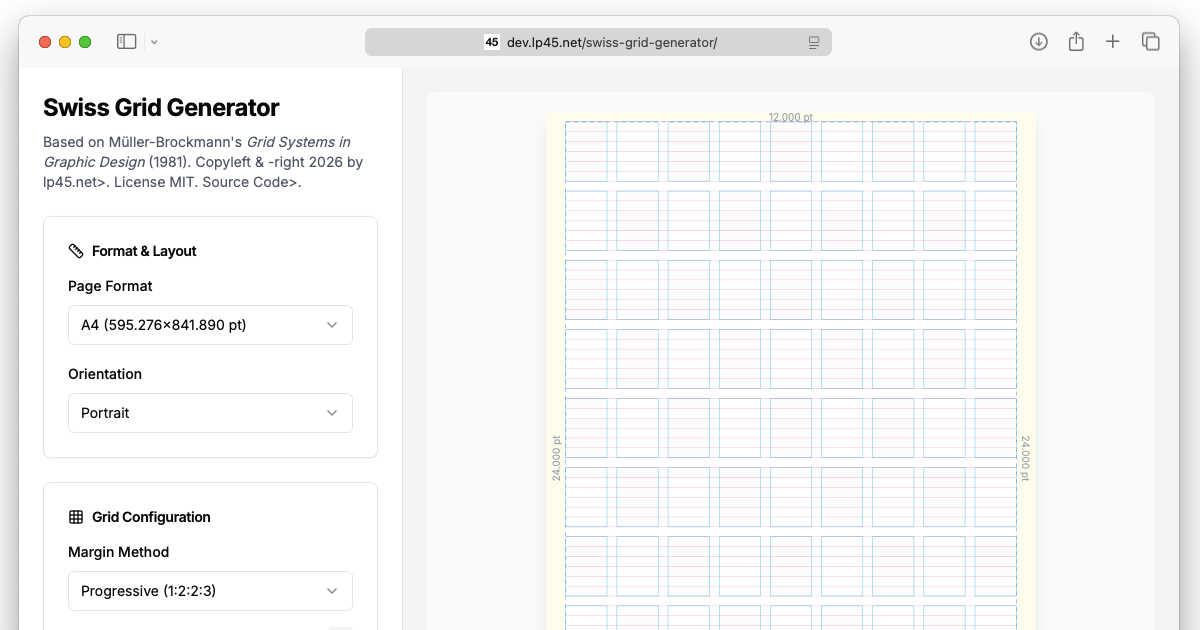
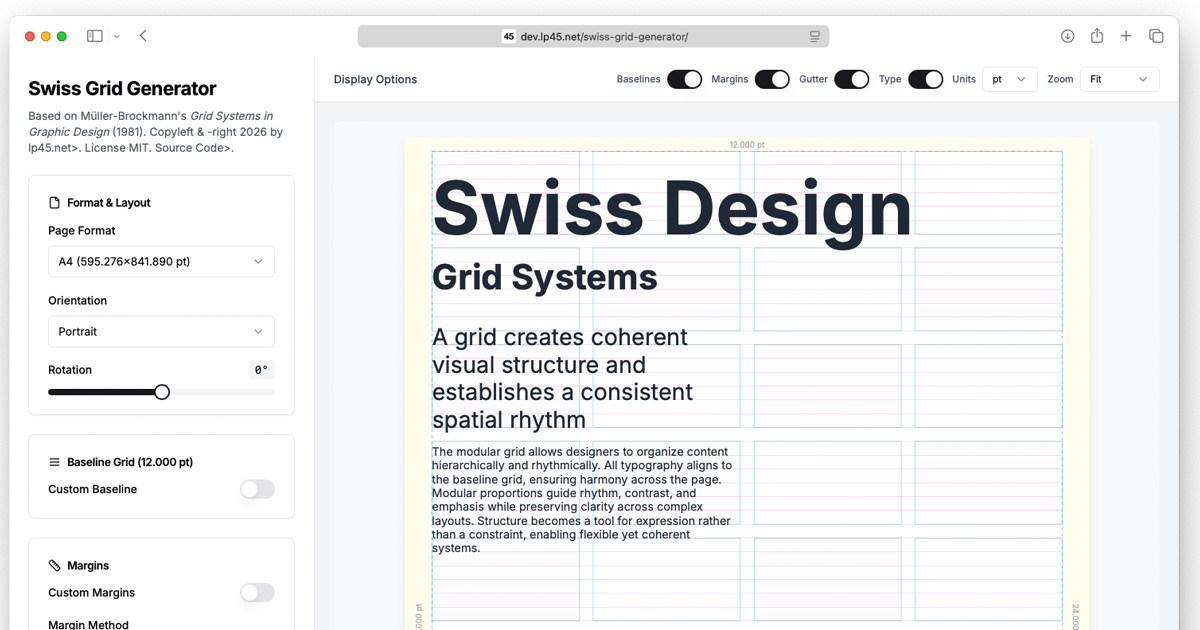
Update docs and assets

diff --git a/README.md b/README.md
@@ -11,13 +11,14 @@ The Swiss Grid Generator provides tools for creating modular grid systems with b
 ## Screenshots
 
 ### Web Application 
-![Web App Screenshot](./swiss-grid-webapp/swiss-grid-generator-webapp-screenshot.png)
+![Web App Screenshot](./assets/swiss-grid-generator-webapp-screenshot.png)
 **Live Preview:** [https://dev.lp45.net/swiss-grid-generator/](https://dev.lp45.net/swiss-grid-generator/)
 
 ## Features
 
 - A-series paper formats (A0-A6) in portrait/landscape
 - Modular grids (1×1 to 13×13)
+- Preview rotation slider (−80° to +80°)
 - Three margin calculation methods:
   - Method 1: Progressive margins (1:2:2:3 — top:left:right:bottom)
   - Method 2: Van de Graaf ratios (2:3:4:6 — top:left:right:bottom)
@@ -25,7 +26,7 @@ The Swiss Grid Generator provides tools for creating modular grid systems with b
 - Custom margin overrides with per-side baseline multipliers
 - Adjustable gutter spacing (1×–4× baseline)
 - 5-level typography system aligned to baseline grid
-- Real-time canvas preview with toggleable layers
+- Real-time canvas preview with toggleable layers, rotation, and column-aware text flow
 - Multiple export formats (JSON, TXT, PDF)
 
 ## Design Principles
@@ -78,6 +79,14 @@ Static files are exported to the `out/` directory.
 
 Select from A0 through A6 formats in either portrait or landscape orientation.
 
+### Orientation
+
+Choose portrait or landscape orientation for the selected format.
+
+### Rotation
+
+Rotate the preview from −80° to +80° in 1° steps.
+
 ### Margin Method
 
 Choose from three calculation methods:
@@ -98,6 +107,10 @@ Gutter spacing is adjustable from 0.5× to 4× baseline, keeping gutters aligned
 
 Adjust the baseline unit from 6 to 72 points. Format-specific defaults are provided (A4: 12pt, A3: 13pt, etc.). All typography scales accordingly.
 
+### Display Options
+
+Toggle baselines, margins, gutter, and typography overlays. Choose display units (pt, mm, px) and preview zoom. Default zoom is Fit.
+
 ## Typography System
 
 The app includes a 5-level hierarchy aligned to the baseline grid (A4 reference, 12pt baseline):
@@ -109,6 +122,11 @@ The app includes a 5-level hierarchy aligned to the baseline grid (A4 reference,
 | subhead | 20pt | 24pt | 2× | Regular | Subheadings |
 | body | 10pt | 12pt | 1× | Regular | Body text, paragraphs |
 | caption | 7pt | 12pt | 1× | Regular | Captions, photo credits |
+
+Preview layout rules:
+- If grid rows are 2 or more, the display line sits on the last baseline of row 1.
+- Headline, subhead, and body start inside row 2.
+- Subhead and body flow into two columns when there are 2 or more columns.
 
 ## Component Structure
 

diff --git a/SETTINGS.md b/SETTINGS.md
@@ -41,6 +41,17 @@ Font sizes and leading scale automatically by format (relative to A4) and baseli
 
 **Default:** portrait
 
+### Rotation
+
+Preview-only rotation of the page.
+
+| Parameter | Value |
+|-----------|-------|
+| Min       | -80°  |
+| Max       | 80°   |
+| Step      | 1°    |
+| **Default** | **0°** |
+
 ## Baseline Grid
 
 ### Custom Baseline
@@ -172,10 +183,14 @@ Possible values: 0.5, 1.0, 1.5, 2.0, 2.5, 3.0, 3.5, 4.0
 
 | Value        | Description                                    |
 |--------------|------------------------------------------------|
-| **original** | **Scale capped at 100% (default)**             |
-| fit          | Scale to fill available preview area           |
+| original     | Scale capped at 100%                           |
+| **fit**      | **Scale to fill available preview area (default)** |
 
-**Default:** original
+**Default:** fit
+
+### Typography Preview Layout
+
+If `Rows` is 2 or more, the preview positions the `display` line on the last baseline of row 1, and starts `headline`, `subhead`, and `body` inside row 2. If `Columns` is 2 or more, `subhead` and `body` flow into two columns.
 
 ## Export
 

diff --git a/CALCULATIONS.md b/CALCULATIONS.md
@@ -339,6 +339,26 @@ scaleY = (containerHeight - 40) / pageHeight
 
 All drawing coordinates are multiplied by `scale` for rendering.
 
+## Canvas Preview Rotation
+
+The preview applies a centered rotation transform before drawing all page elements:
+
+```
+ctx.translate(canvasWidth / 2, canvasHeight / 2)
+ctx.rotate((rotation * Math.PI) / 180)
+ctx.translate(-pageWidth / 2, -pageHeight / 2)
+```
+
+All modules, baselines, margins, and typography are drawn in the rotated coordinate space.
+
+## Typography Preview Layout Rules
+
+Preview-only layout rules for the sample text blocks:
+
+- If `gridRows >= 2`, the `display` line is placed on the last baseline of row 1.
+- `headline`, `subhead`, and `body` start inside row 2, respecting the minimum baseline offset for the font size.
+- If `gridCols >= 2`, `subhead` and `body` flow into two columns using half the available module columns.
+
 ---
 
 ## Reference
